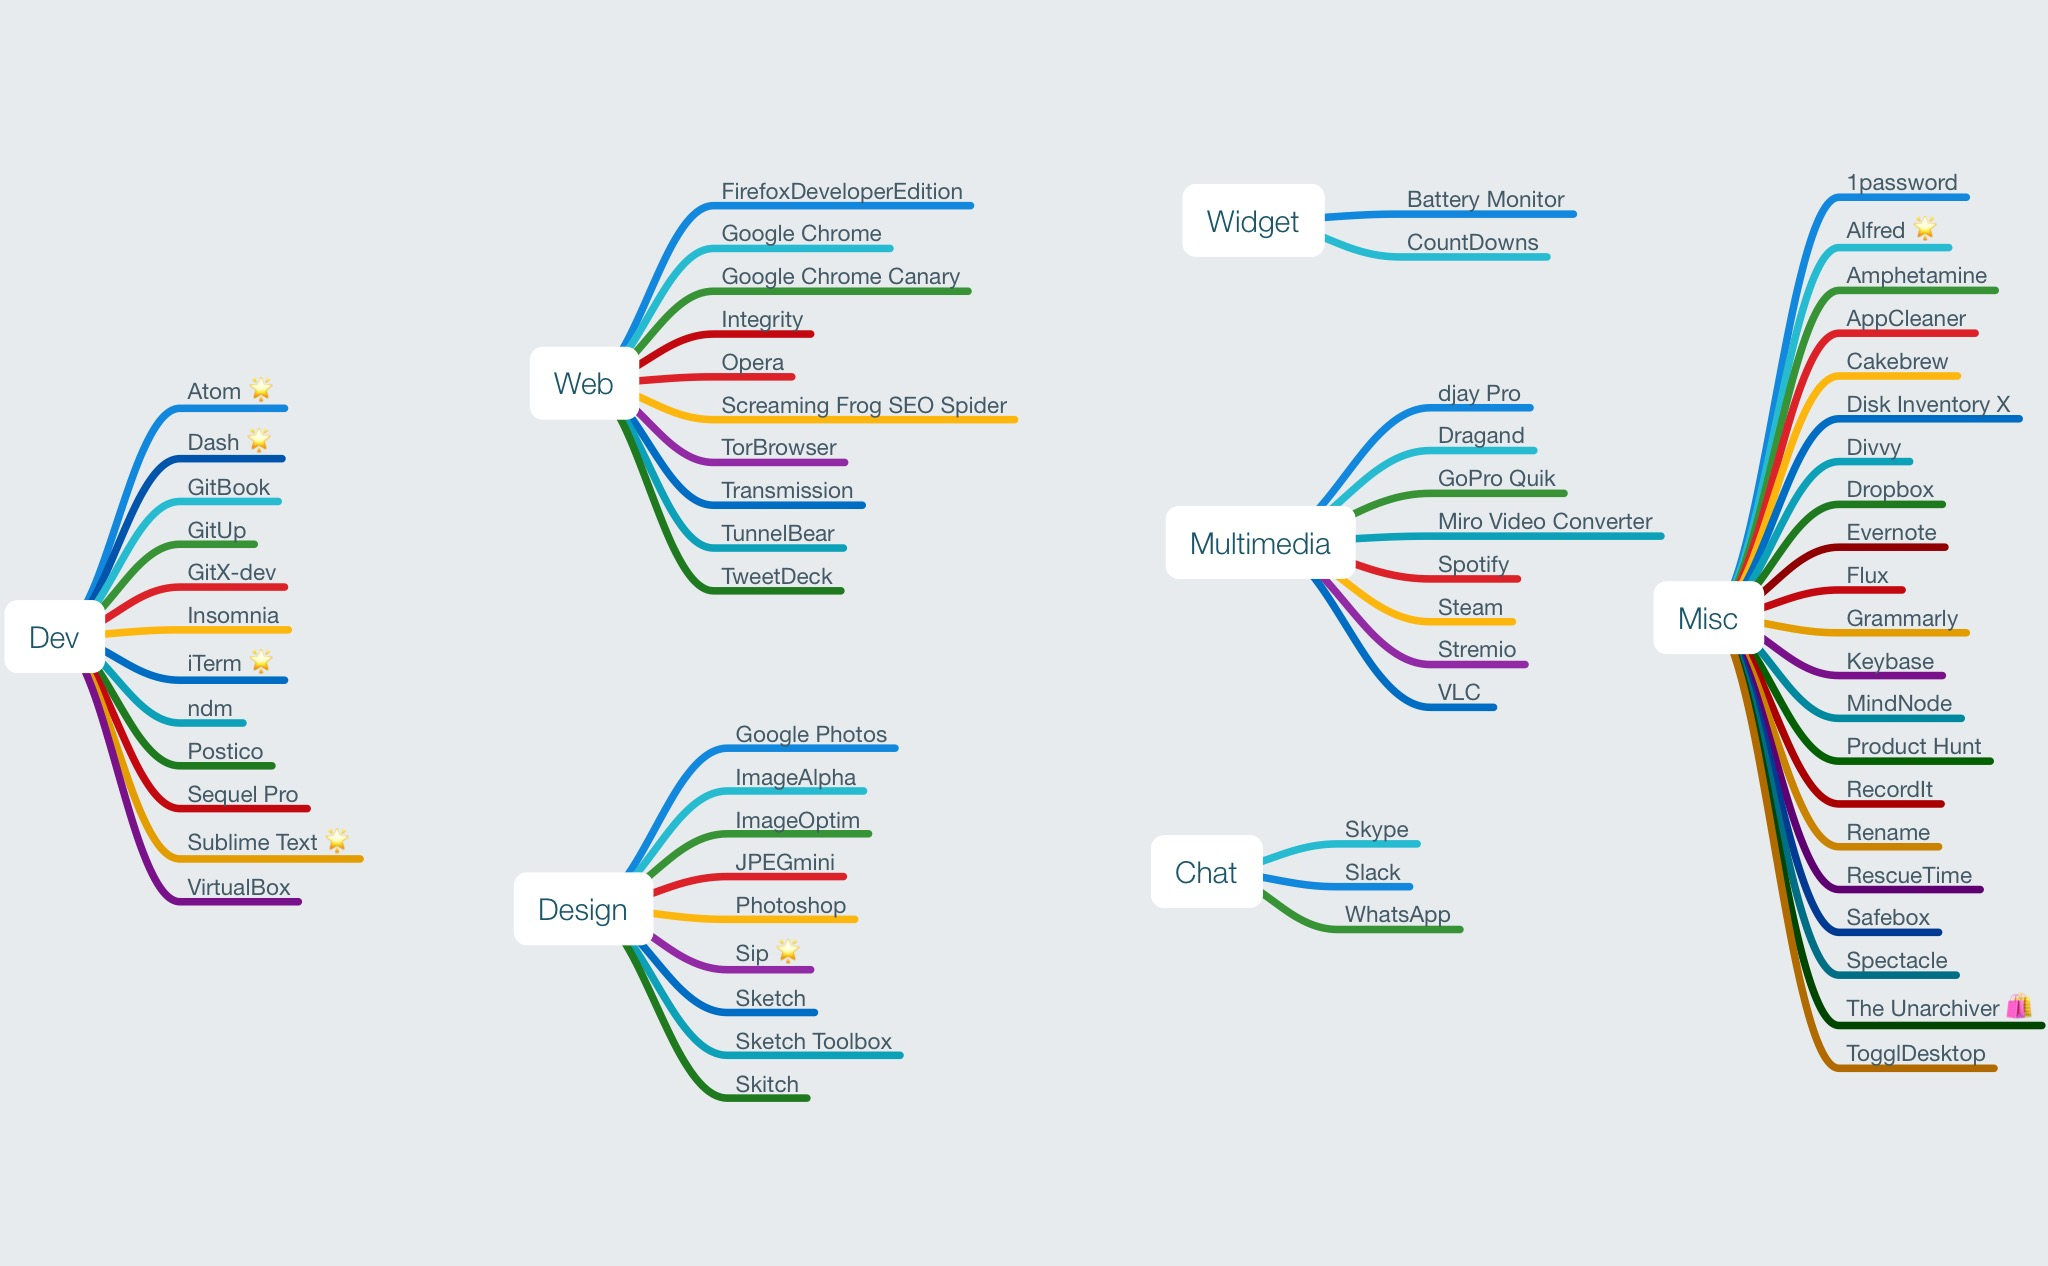
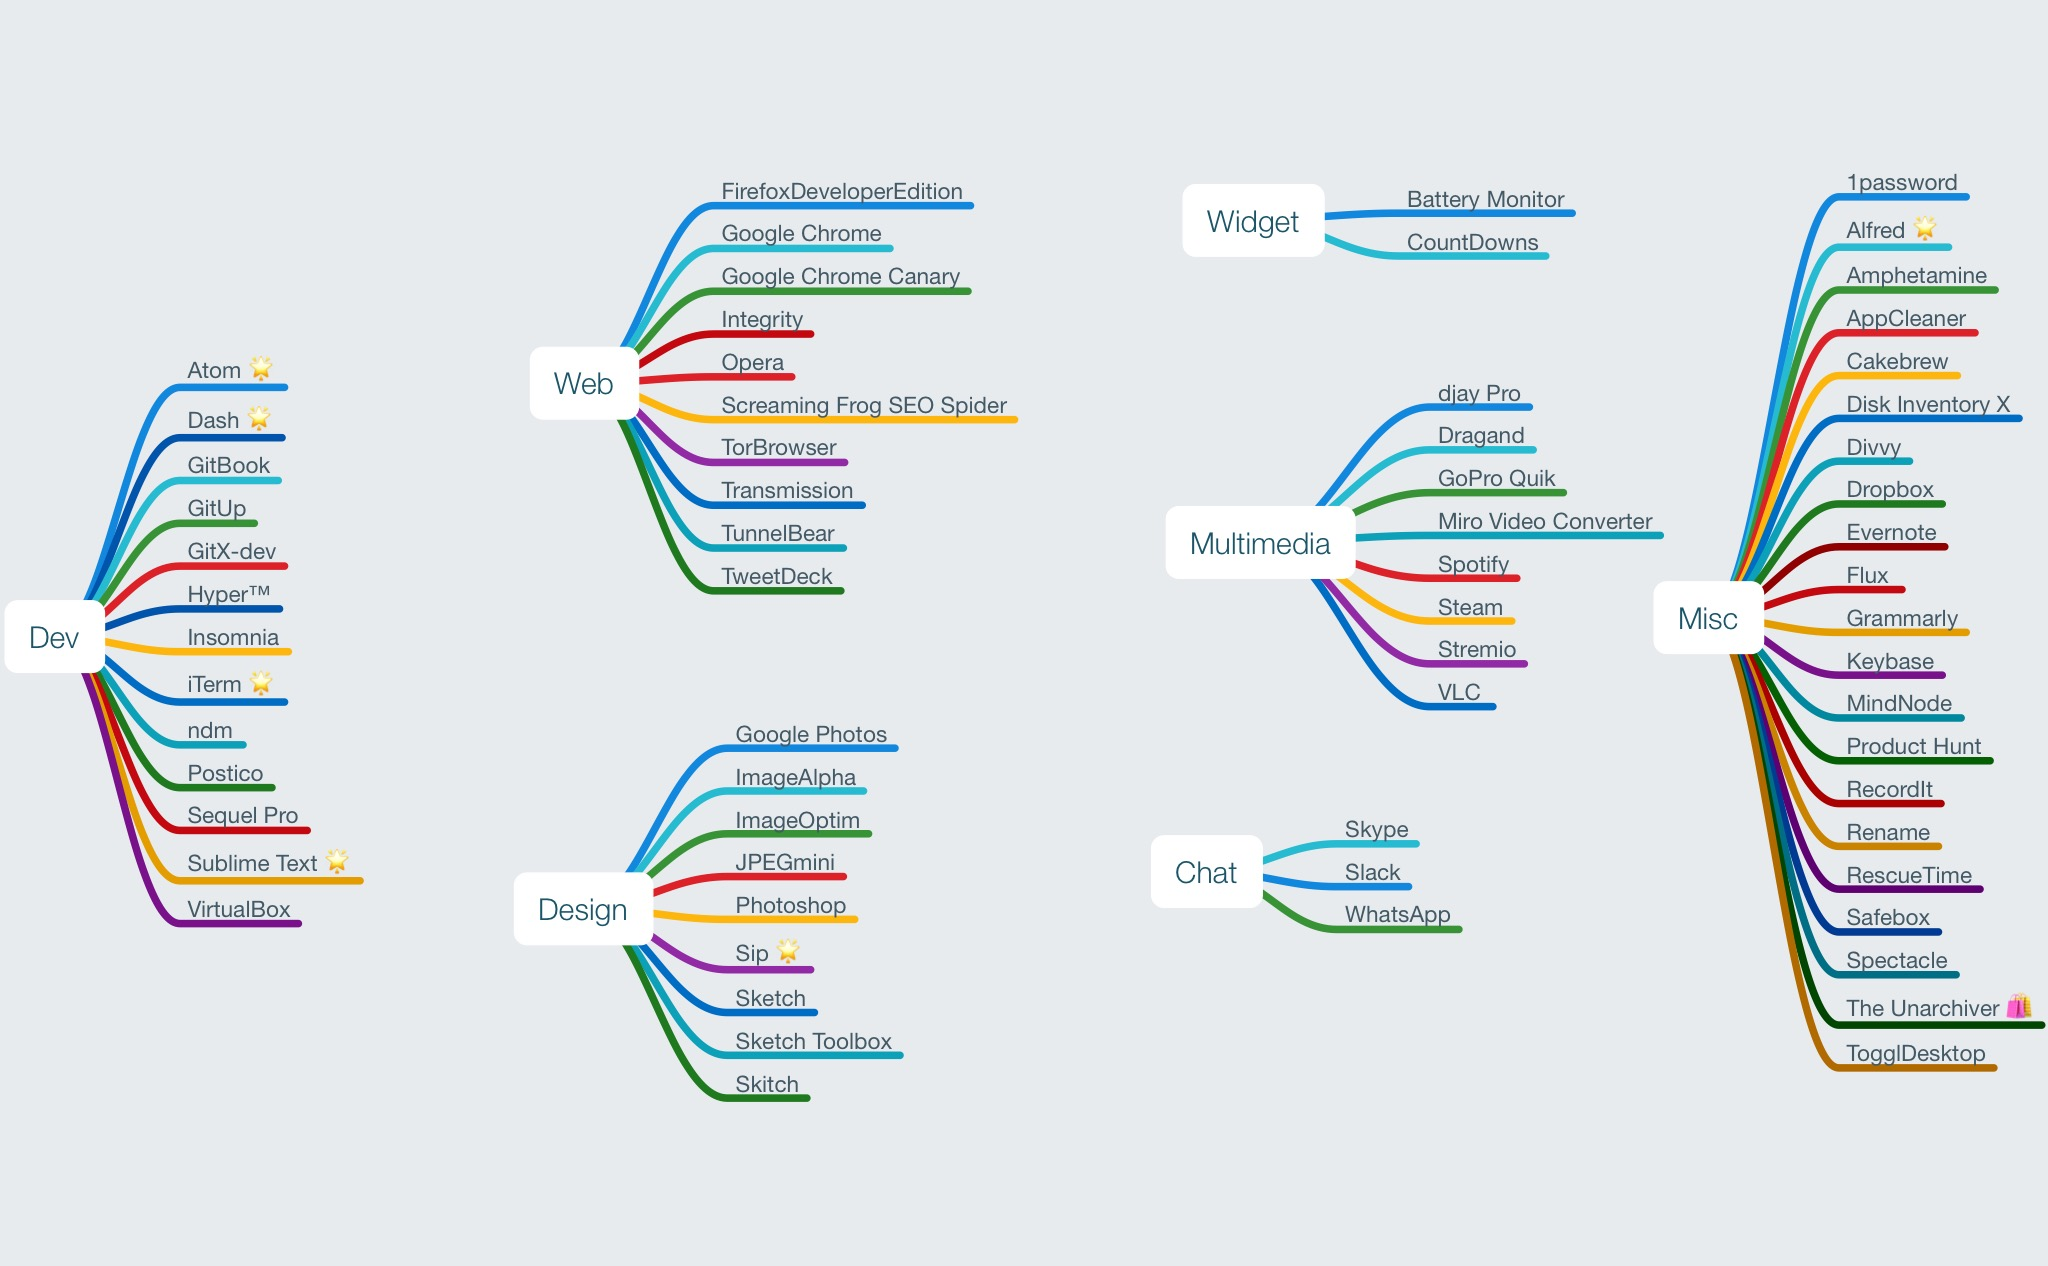
Update README

diff --git a/README.md b/README.md
@@ -29,6 +29,7 @@ Here is the list of all the apps I use as a front-end developer to be productive
 - GitBook
 - GitUp
 - GitX-dev
+- [Hyper™](https://hyper.is/) A terminal built on web technologies with HTML/JS/CSS. Like Atom you can customise almost everything.
 - Insomnia
 - iTerm 🌟
 - ndm
